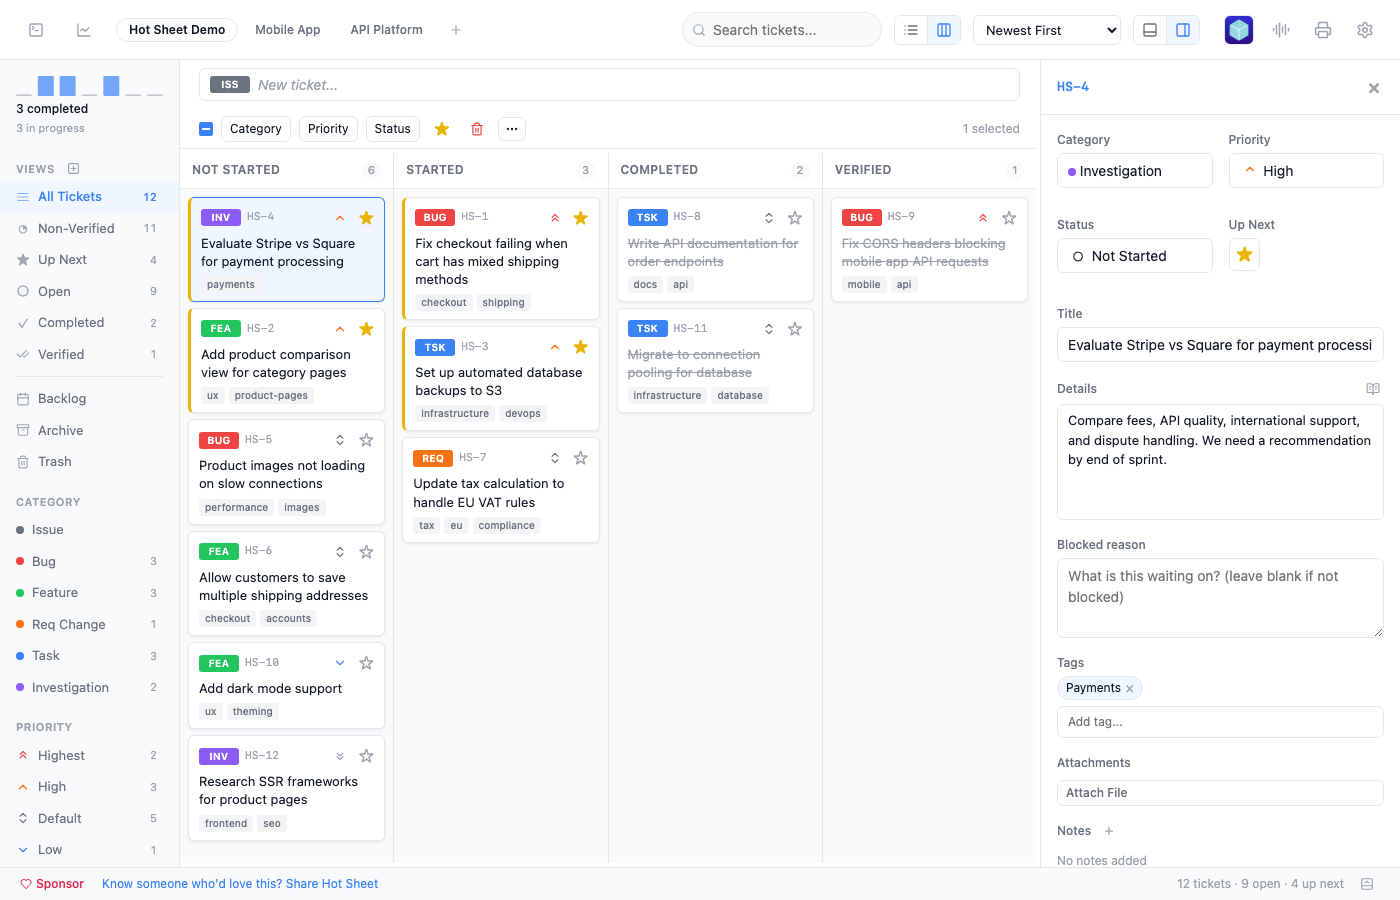
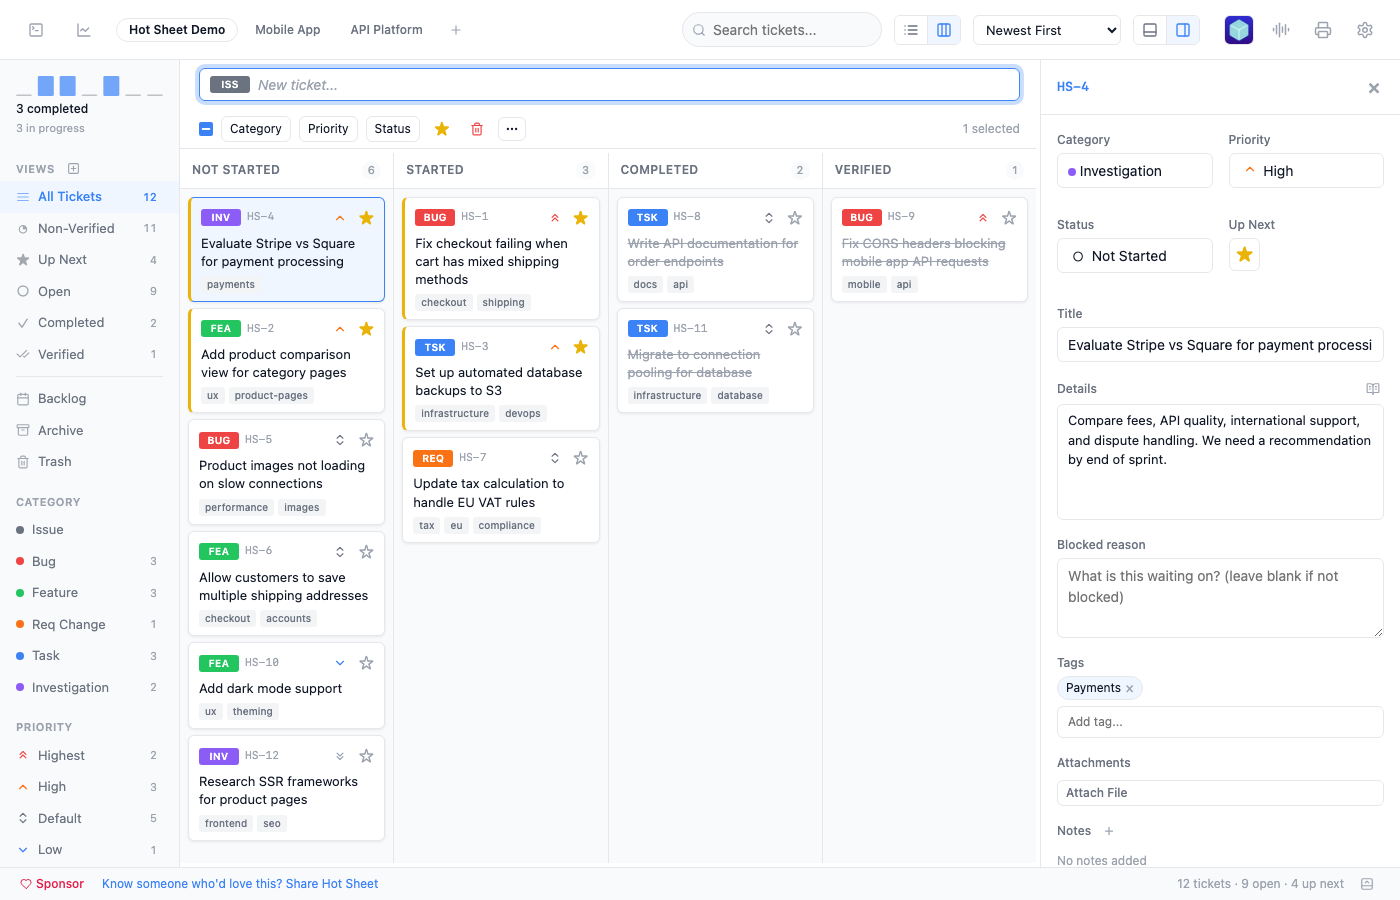
HS-9664: demo-10 — closer zoom + purple emphasis ring on the project tabs
First slice of the real-interaction / varied-treatment demo pass. demo-10
gains a per-demo `focusScale` override (1.55, tighter than the shared 1.28)
and a `highlight` flag that bakes a purple rounded-rect emphasis ring around
the hero element INTO the app SVG (app-space coords), so the ring rides the
camera push and scales with it. Breaks the zoom-everywhere monotony: this demo
now reads as zoom + emphasis, pointing the eye straight at the project tabs.

The remaining interaction upgrades (demo-2 typing→enter→new row, demo-4 live
update, demo-5 click+context-menu+batch, demo-6 real scroll, demo-9 play→
claude) need domotion `animate` to drive the LIVE demo server; that path is
blocked by animate's hardcoded `networkidle` navigation vs Hot Sheet's
`/api/poll` long-poll (never idle). Fix is landing in domotion itself; these
demos are queued on that release.

Changed region(s): [[0.1229, 0.0622, 0.7371, 0.1244]]

diff --git a/scripts/capture-demos.ts b/scripts/capture-demos.ts
@@ -81,6 +81,13 @@ interface DemoMeta {
   caption: string;
   heroSelector?: string;
   captionPosition?: 'bottom-center' | 'top-center';
+  /** HS-9664 — per-demo push strength override (default `FOCUS_SCALE`), for demos
+   *  whose hero wants a tighter crop than the shared value gives. */
+  focusScale?: number;
+  /** HS-9664 — draw a purple rounded-rect emphasis ring around the hero element,
+   *  baked into the app SVG (so it scales with the camera push). Varies the visual
+   *  verb away from zoom-only: the ring points the eye at the exact feature. */
+  highlight?: boolean;
 }
 const DEMO_META: Record<number, DemoMeta> = {
   1: { verb: 'dolly', caption: 'Categories, priorities & statuses — at a glance' },
@@ -92,7 +99,7 @@ const DEMO_META: Record<number, DemoMeta> = {
   7: { verb: 'dolly', caption: 'A kanban board by status' },
   8: { verb: 'focus', heroSelector: '.dashboard-chart-card', caption: 'Throughput, flow & cycle time', captionPosition: 'top-center' },
   9: { verb: 'focus', heroSelector: '#channel-play-section, [id^="channel-play"]', caption: 'Send a ticket straight to Claude Code', captionPosition: 'top-center' },
-  10: { verb: 'focus', heroSelector: '.project-tabs-inner', caption: 'Switch projects without leaving Hot Sheet', captionPosition: 'bottom-center' },
+  10: { verb: 'focus', heroSelector: '.project-tabs-inner', caption: 'Switch projects without leaving Hot Sheet', captionPosition: 'bottom-center', focusScale: 1.55, highlight: true },
   11: { verb: 'focus', heroSelector: '#footer-drawer, [id^="drawer-"]', caption: 'Terminals, built right in', captionPosition: 'top-center' },
   12: { verb: 'dolly', caption: 'Every terminal at once', captionPosition: 'top-center' },
   13: { verb: 'focus', heroSelector: '#telemetry-dashboard-cost-over-time, .cross-project-stats-page', caption: 'Track Claude Code costs over time', captionPosition: 'top-center' },
@@ -465,6 +472,24 @@ interface Focus { fx: number; fy: number }
  * stay byte-identical. Renders both `docs/demo-<id>.svg` (README) and, when
  * `DEMO_MP4` is set, `docs/demo-<id>.mp4` (review).
  */
+/** HS-9664 — a purple rounded-rect emphasis ring around `box`, injected into the
+ *  app SVG just before `</svg>` (app-space coords, viewBox 0 0 W H). A soft wide
+ *  translucent halo behind a crisp inner stroke reads as emphasis, not a border. */
+function injectHighlightRect(appSvg: string, box: { x: number; y: number; width: number; height: number }): string {
+  const P = 7;
+  const x = (box.x - P).toFixed(1);
+  const y = (box.y - P).toFixed(1);
+  const w = (box.width + P * 2).toFixed(1);
+  const h = (box.height + P * 2).toFixed(1);
+  const ring =
+    `<g>` +
+    `<rect x="${x}" y="${y}" width="${w}" height="${h}" rx="13" ry="13" fill="none" stroke="#a855f7" stroke-opacity="0.28" stroke-width="12"/>` +
+    `<rect x="${x}" y="${y}" width="${w}" height="${h}" rx="13" ry="13" fill="none" stroke="#8b5cf6" stroke-width="4"/>` +
+    `</g>`;
+  const i = appSvg.lastIndexOf('</svg>');
+  return i === -1 ? appSvg : appSvg.slice(0, i) + ring + appSvg.slice(i);
+}
+
 async function buildDynamicDemo(id: number, appSvg: string, screenW: number, screenH: number, focus: Focus | null): Promise<void> {
   const meta = DEMO_META[id];
   if (meta === undefined) throw new Error(`no DEMO_META for scenario ${String(id)}`);
@@ -488,7 +513,7 @@ async function buildDynamicDemo(id: number, appSvg: string, screenW: number, scr
     const originX = useFocus ? focus.fx * FW : FW / 2;
     const originY = useFocus ? chromeTop + focus.fy * screenH : FH / 2;
     const transformOrigin = useFocus ? `${((originX / FW) * 100).toFixed(1)}% ${((originY / FH) * 100).toFixed(1)}%` : 'center';
-    const scaleTo = useFocus ? FOCUS_SCALE : DOLLY_SCALE;
+    const scaleTo = useFocus ? (meta.focusScale ?? FOCUS_SCALE) : DOLLY_SCALE;
 
     // 3. Lower-third caption, sized to the full canvas, fading in as the push
     //    settles (start = most of the way through the move).
@@ -645,9 +670,11 @@ async function captureScenario(scenario: Scenario): Promise<void> {
       // selector logs + falls back to a whole-window dolly (focus === null).
       const meta = DEMO_META[scenario.id];
       let focus: Focus | null = null;
+      let heroBox: { x: number; y: number; width: number; height: number } | null = null;
       if (meta?.verb === 'focus' && meta.heroSelector !== undefined) {
         const box = await page.locator(meta.heroSelector).first().boundingBox().catch(() => null);
         if (box) {
+          heroBox = box;
           focus = { fx: (box.x + box.width / 2) / VIEWPORT.width, fy: (box.y + box.height / 2) / VIEWPORT.height };
         } else {
           console.log(`  ⚠ hero selector "${meta.heroSelector}" did not resolve — falling back to dolly`);
@@ -658,7 +685,12 @@ async function captureScenario(scenario: Scenario): Promise<void> {
       await embedRemoteImages(tree);
       // HS-8687 / domotion-svg 0.6.0: `elementTreeToSvg` returns a complete,
       // self-contained SVG document (outer `<svg xmlns viewBox …>` included).
-      const appSvg = elementTreeToSvg(tree, VIEWPORT.width, VIEWPORT.height, { idPrefix: `demo-${scenario.id}-` });
+      let appSvg = elementTreeToSvg(tree, VIEWPORT.width, VIEWPORT.height, { idPrefix: `demo-${scenario.id}-` });
+      // HS-9664 — bake a purple emphasis ring around the hero (in app-space coords,
+      // so it rides the camera push) when the demo asks for one.
+      if (meta?.highlight === true && heroBox !== null) {
+        appSvg = injectHighlightRect(appSvg, heroBox);
+      }
       // HS-9003 — compose the bare app capture into a short DYNAMIC animated SVG
       // (no title card): opens on the UI, plays a per-demo camera move toward the
       // hero element (or a whole-window dolly), and fades in an in-context
